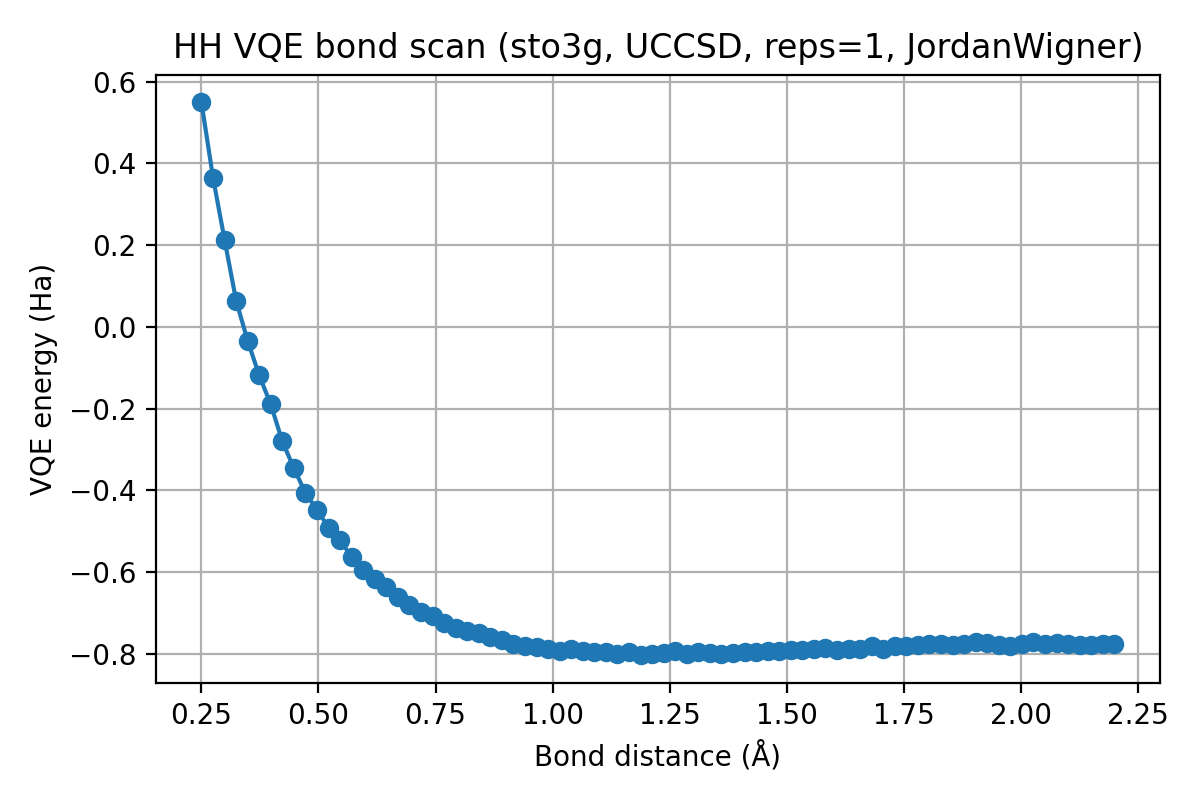
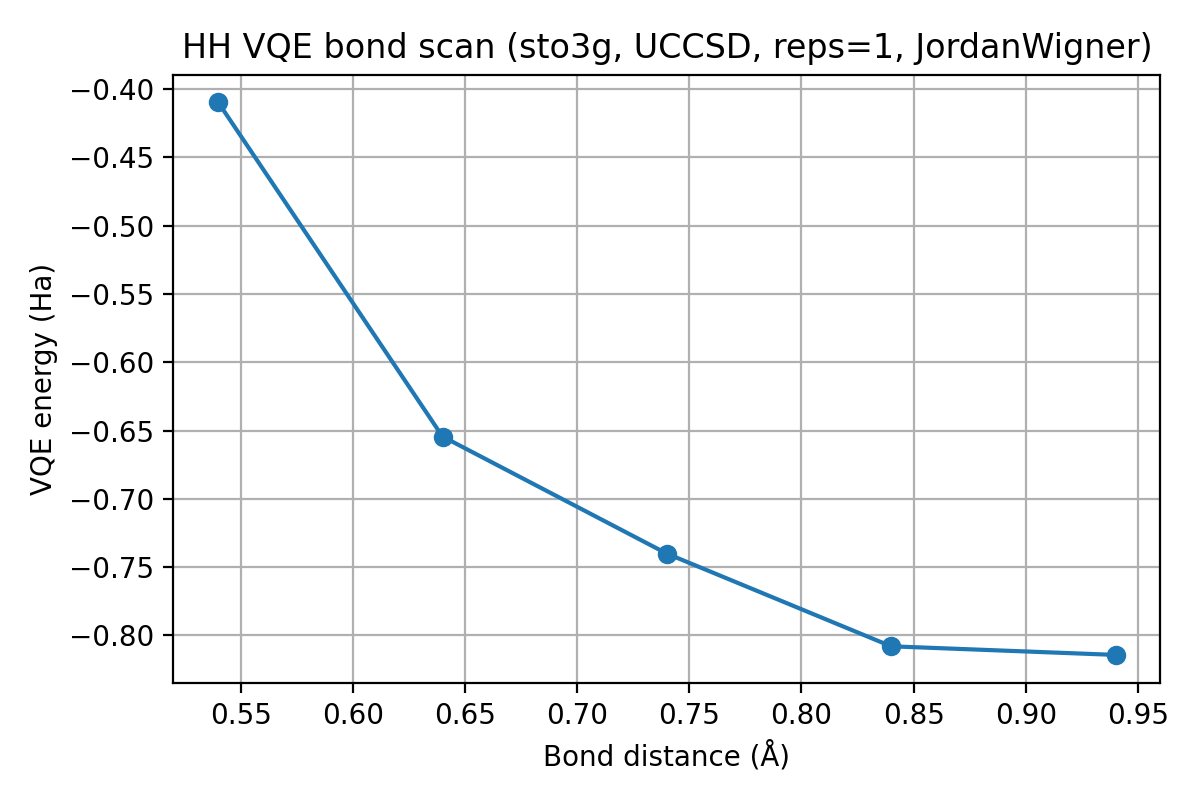
add plot for expected hardware performance

diff --git a/modules/jobs.py b/modules/jobs.py
@@ -915,11 +915,11 @@ def run_h2_bond_scan() -> dict[str, Any]:
         "ansatz_method": "UCCSD",
         "entanglement": "linear",
         "reps": 1,
-        "optimizer_maxiter": 150,
+        "optimizer_maxiter": 20,
         "optimizer_rhobeg": 1.0,
         "optimizer_tol": 1e-5,
         "seed": 42,
-        "distances": np.linspace(0.25, 2.2, 80),
+        "distances": np.linspace(0.54, 0.94, 5),
     }
 
     distances = h2_scan_config["distances"]

diff --git a/main.py b/main.py
@@ -22,12 +22,12 @@ if __name__ == "__main__":
     # run_convergence_benchmark()
     
     # Bond scans
-    # run_h2_bond_scan()
+    run_h2_bond_scan()
     # run_lih_bond_scan()
     # run_hf_bond_scan()
     
     # Joint optimizations
-    run_h2_joint_optimization()
+    # run_h2_joint_optimization()
     # run_lih_joint_optimization()
     # run_hf_joint_optimization()
     # run_h2o_joint_optimization()

diff --git a/modules/bond_scan.py b/modules/bond_scan.py
@@ -70,7 +70,7 @@ def bond_scan_diatomic_vqe(
     plot: bool,
     images_dir: str | Path,
     use_sampler: bool = True,
-    shots: int = 10000,
+    shots: int = 200,
     noisy_sampler: bool = True,
     noise_scale: float = 1.0,
     p1_base: float = 0.001,
